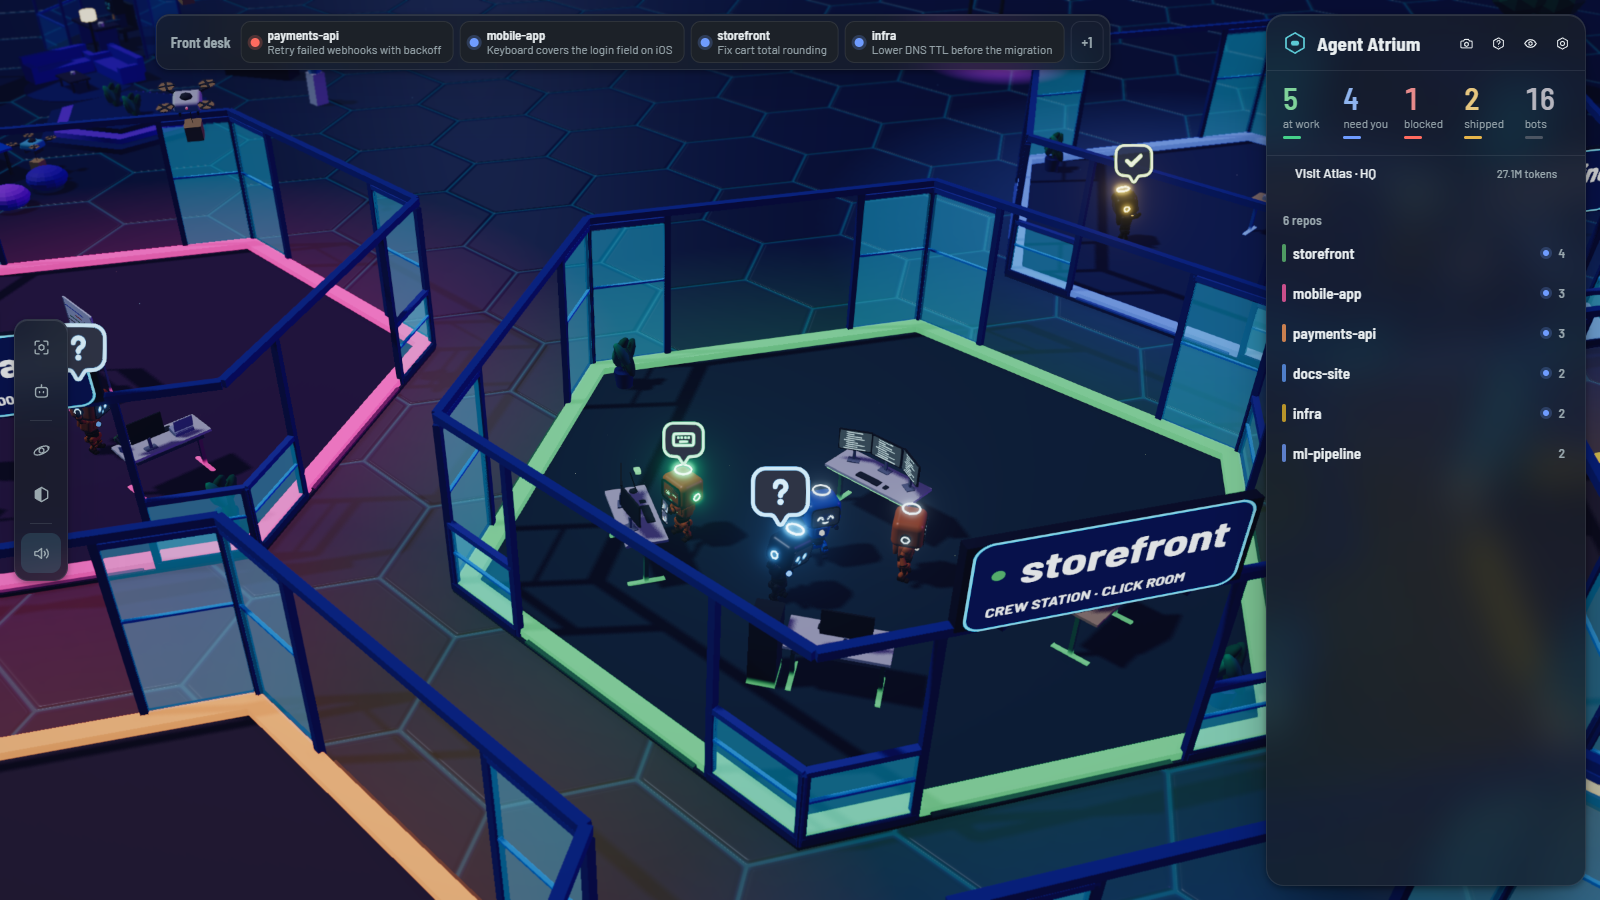
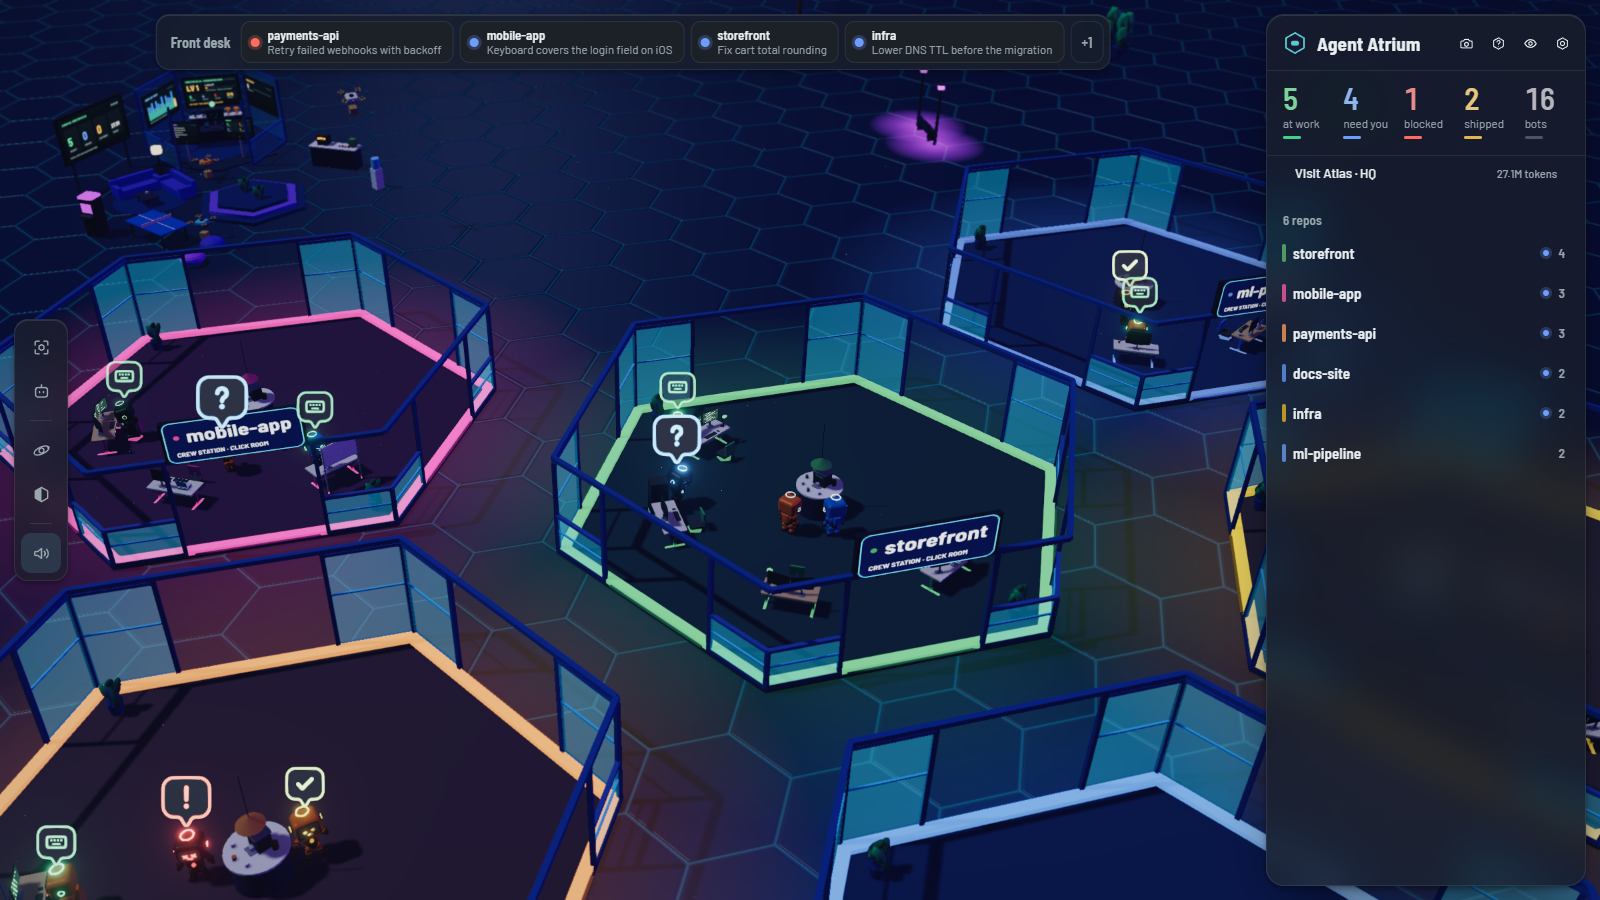
Refresh README screenshots and add Sunset Loft and the coffee break

diff --git a/README.md b/README.md
@@ -19,14 +19,25 @@
 
 <table>
   <tr>
+    <td width="33%"><img src="docs/images/coffee-break.png" alt="Inside one room: a bot typing in its chair at a desk, one standing behind its chair waiting for a reply, and two idle bots on a coffee break round the coffee corner."></td>
     <td width="33%"><img src="docs/images/staff-badge.png" alt="A bot's staff badge: its repository, thread title, agent, status, branch, model and recorded tokens, with Open, Viewed and Archive buttons."></td>
-    <td width="33%"><img src="docs/images/atlas-hq.png" alt="Director Atlas's office: a daily briefing with the agents that are blocked or waiting, and counts of who is on shift."></td>
-    <td width="33%"><img src="docs/images/neon-night.png" alt="The same office in the Neon Night style: dark floor, glowing room outlines and bots lit by their status halos."></td>
+    <td width="33%"><img src="docs/images/atlas-hq.png" alt="Director Atlas's HQ: a glass hex office with wall screens for rank and trophies, a 14-day token chart and the mission board, two kiosks and a trophy cabinet."></td>
   </tr>
   <tr>
+    <td align="center"><sub>Working bots sit at their desks; idle ones take a coffee break</sub></td>
     <td align="center"><sub>Click a bot for its staff badge</sub></td>
-    <td align="center"><sub>Director Atlas's HQ</sub></td>
-    <td align="center"><sub>Neon Night, one of five office styles</sub></td>
+    <td align="center"><sub>Director Atlas's HQ: the stats live on its walls</sub></td>
+  </tr>
+</table>
+
+<table>
+  <tr>
+    <td width="50%"><img src="docs/images/sunset-loft.png" alt="The office in the Sunset Loft style: amber light across dark timber floors."></td>
+    <td width="50%"><img src="docs/images/neon-night.png" alt="The office in the Neon Night style: dark floor, glowing room outlines and bots lit by their status halos."></td>
+  </tr>
+  <tr>
+    <td align="center"><sub>Sunset Loft</sub></td>
+    <td align="center"><sub>Neon Night</sub></td>
   </tr>
 </table>
 
@@ -112,7 +123,7 @@ a rim light in a second colour that outlines the bots, and a touch of depth of f
 | Style | Look |
 | --- | --- |
 | **Glass Studio** (default) | Pearl-white glass rooms, cool reflections and long afternoon shadows |
-| **Daylight Office** | Late-afternoon daylight on carpet and oak, soft blue shade behind white frames |
+| **Evening Office** | Late-afternoon daylight on carpet and oak, soft blue shade behind white frames |
 | **Sunset Loft** | Amber evening light across dark timber floors, an orange sky behind |
 | **Greenhouse** | Low sunlight through steel and glass, warm stone and deep leafy shadows |
 | **Neon Night** | Low moonlight, silver-blue highlights and violet edges across a dark tiled floor |
@@ -121,9 +132,22 @@ Every style is the same office. Your rooms, bots and layout stay put when you sw
 
 ## Director Atlas's HQ
 
-Beside the status board in the commons sits **Atlas**, the office director, in a glass hex office
-of their own. Click Atlas, the status board, or **Visit Atlas · HQ** in the panel to step inside.
-Everything in it comes from real local data; nothing in it is simulated or written by a model.
+Beside the status board in the commons sits **Atlas**, the office director, in a big glass hex
+office of their own. **Visit Atlas · HQ** in the panel flies you there. The office's numbers
+are on its walls, so you can read them without opening anything:
+
+- **Rank screen:** your coordinator level and XP, who is on shift, waiting or blocked, and the
+  next trophy to earn.
+- **Energy screen:** recorded tokens for each of the last 14 days, with today in gold.
+- **Mission screen:** open handoff packets and who they are for.
+- **Workshop and Chronicle kiosks** by the door: CI passing and failing, open PRs, local models
+  online, and the latest changes in the office.
+- **Trophy cabinet:** six cups that light up gold as you earn them: first handoff, mission
+  cleared, inbox zero, full house, shipped, and a million-token day.
+
+Every screen lights up under the pointer, and clicking one opens its tab of the HQ panel for
+the full details (click Atlas or the cabinet for the briefing). Everything in it comes from
+real local data; nothing is simulated or written by a model.
 
 - **Daily briefing:** who is on shift, who needs a decision and who is ready for review, with a
   button to fly to each one.
@@ -174,18 +198,23 @@ you check the authoritative account view yourself.
 
 - **A room per repo.** A busy repo grows into a bigger room, with its parts joined by floor. The
   sign on its wall is the repo's name.
-- **A desk per thread.** Each thread gets its own workstation, picked from its id: a focus desk,
-  dual or triple screens, a laptop rig, a desk with a build server, or a planning desk with a
-  whiteboard. The screens scroll code in the bot's status colour: busy green while it works, slow
+- **A desk per thread.** Each thread gets its own workstation and chair, picked from its id: a
+  focus desk, dual or triple screens, a laptop rig, a desk with a build server, or a planning
+  desk with a whiteboard. A working bot sits in its chair and types; one waiting on you, stuck
+  or celebrating stands just behind it.
+- **A coffee corner per room.** An island with an espresso machine under a lamp in the room's
+  colour. Idle bots leave their desks for a coffee break there, and walk back when their thread
+  starts working again. The screens scroll code in the bot's status colour: busy green while it works, slow
   blue while it waits on you, a stalled red on an error, gold when its work shipped.
 - **The bots.** Each has a monitor for a head, its face on an LED screen behind glass, with a
   halo floating above it and light rings round its ears, both in its status colour, so you
-  can read the whole floor from straight above. Below it is a hard-shell body: a chest plate
-  with a status lamp, a jointed waist, ball joints, gauntlet forearms, mitts and boots. Shell
+  can read the whole floor from straight above. Below it is a chunky, toy-like hard-shell body:
+  a round chest with a status lamp, a jointed waist, ball joints, gauntlets, big mitts and boots. Shell
   colour is the agent: Claude Code bots are orange, Codex bots are black, and everything else
   is blue.
 - **Badges are the status.** `?` waiting on you, `!` hit an error, a keyboard means typing at
-  its desk right now, `✓` its pull request landed. A bot with no badge is idle. One that has been
+  its desk right now, `✓` its pull request landed. A bot with no badge is idle, on its coffee
+  break. One that has been
   quiet for three days dozes off by its desk, and so does one whose error is days old.
 - **The commons** around reception has a lounge, a coffee bar, a water cooler, a ping-pong table,
   an arcade cabinet, Director Atlas's glass office, and a status board showing who is on shift,
